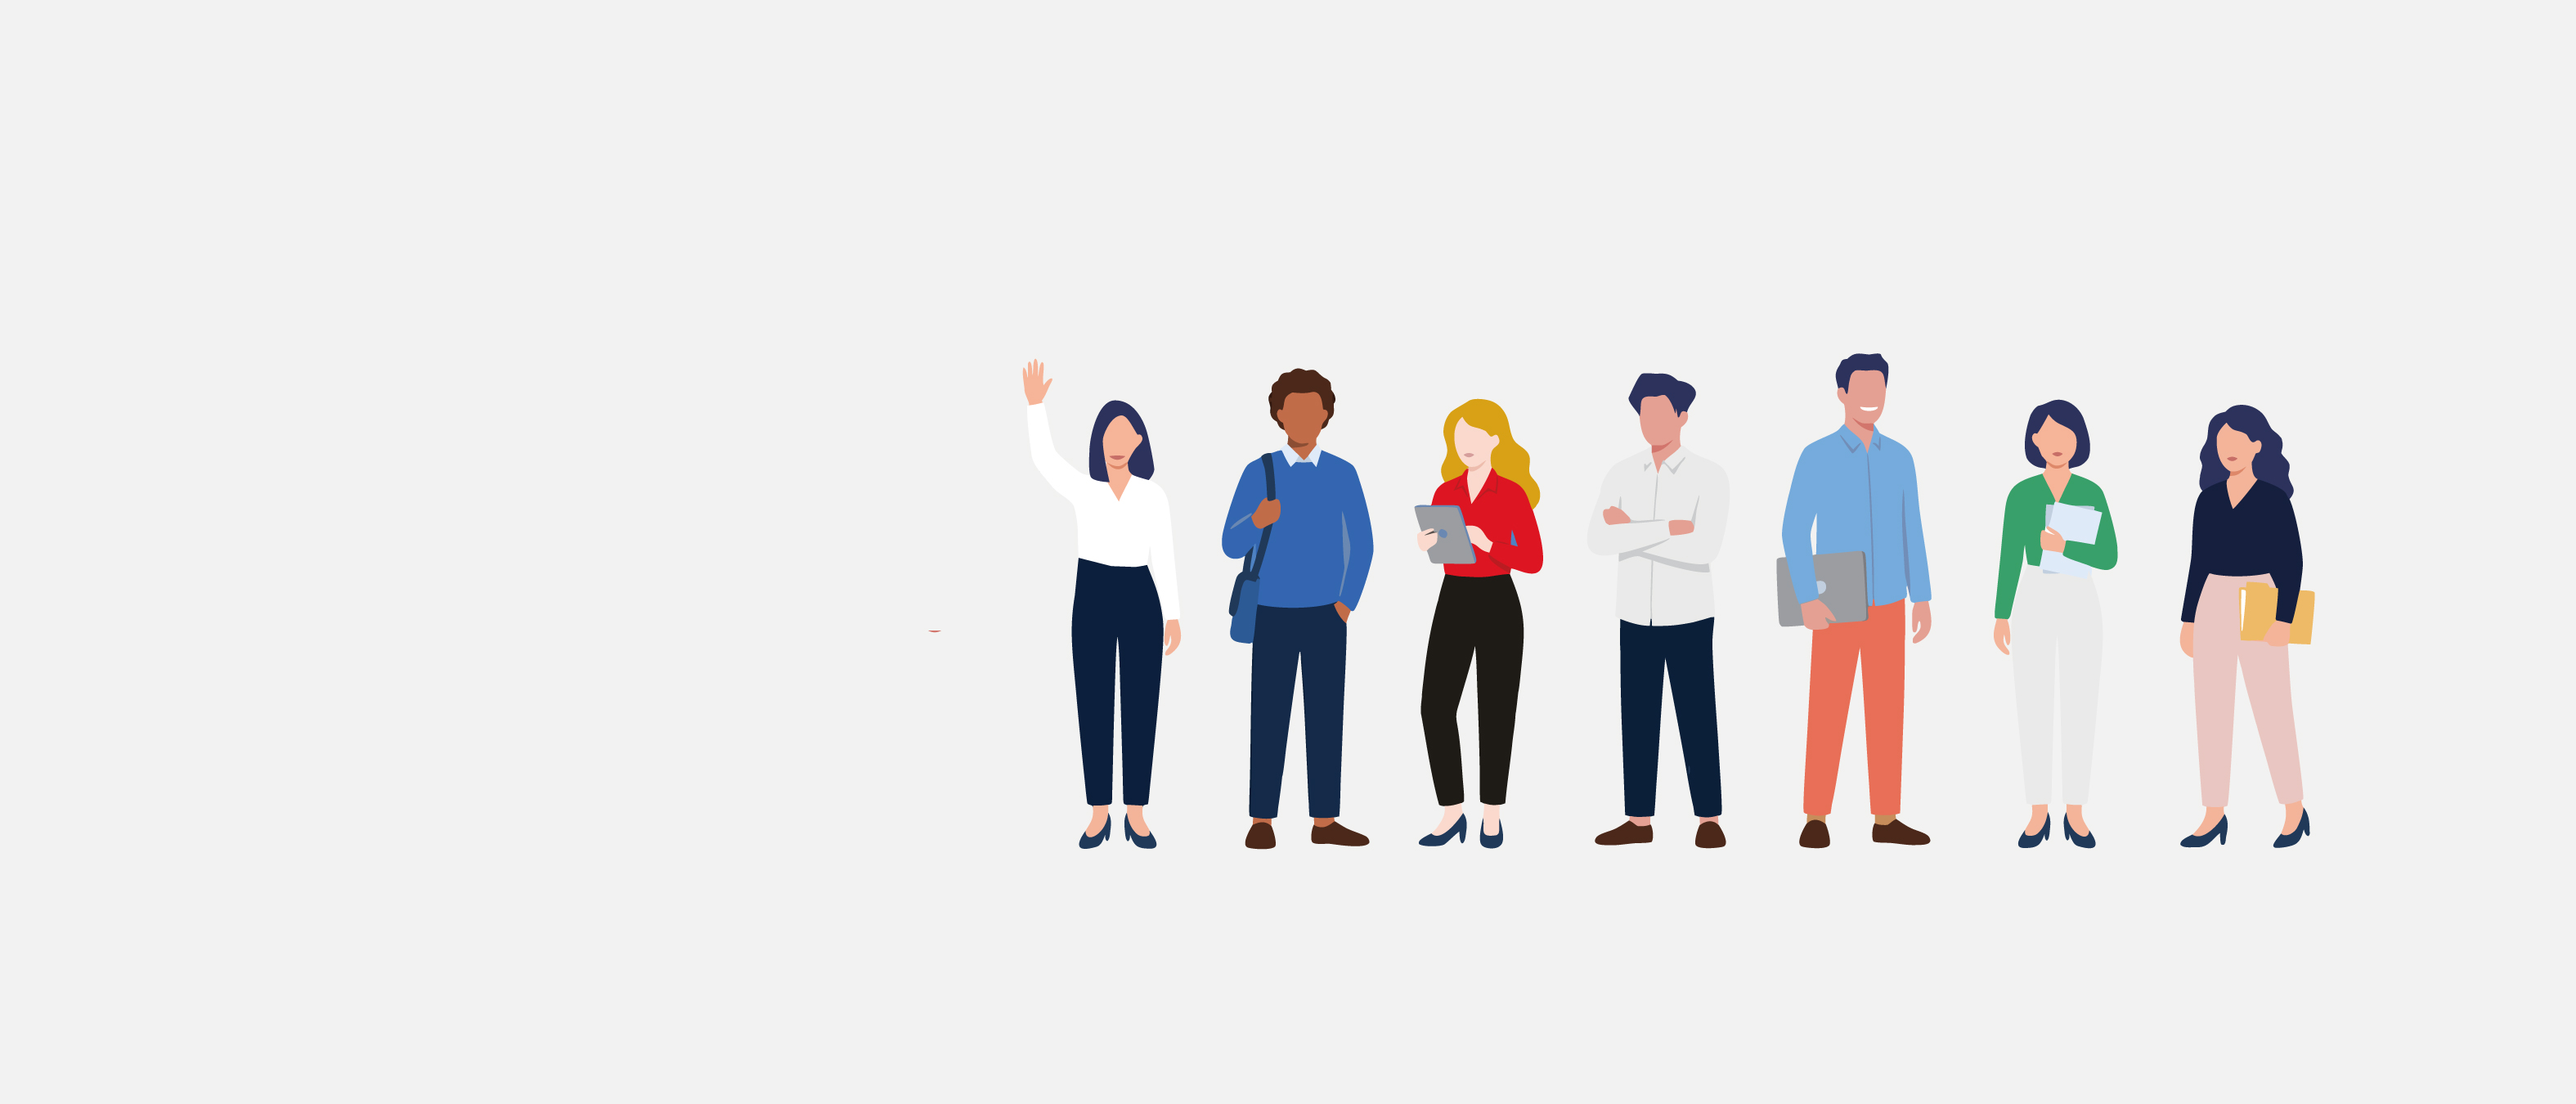
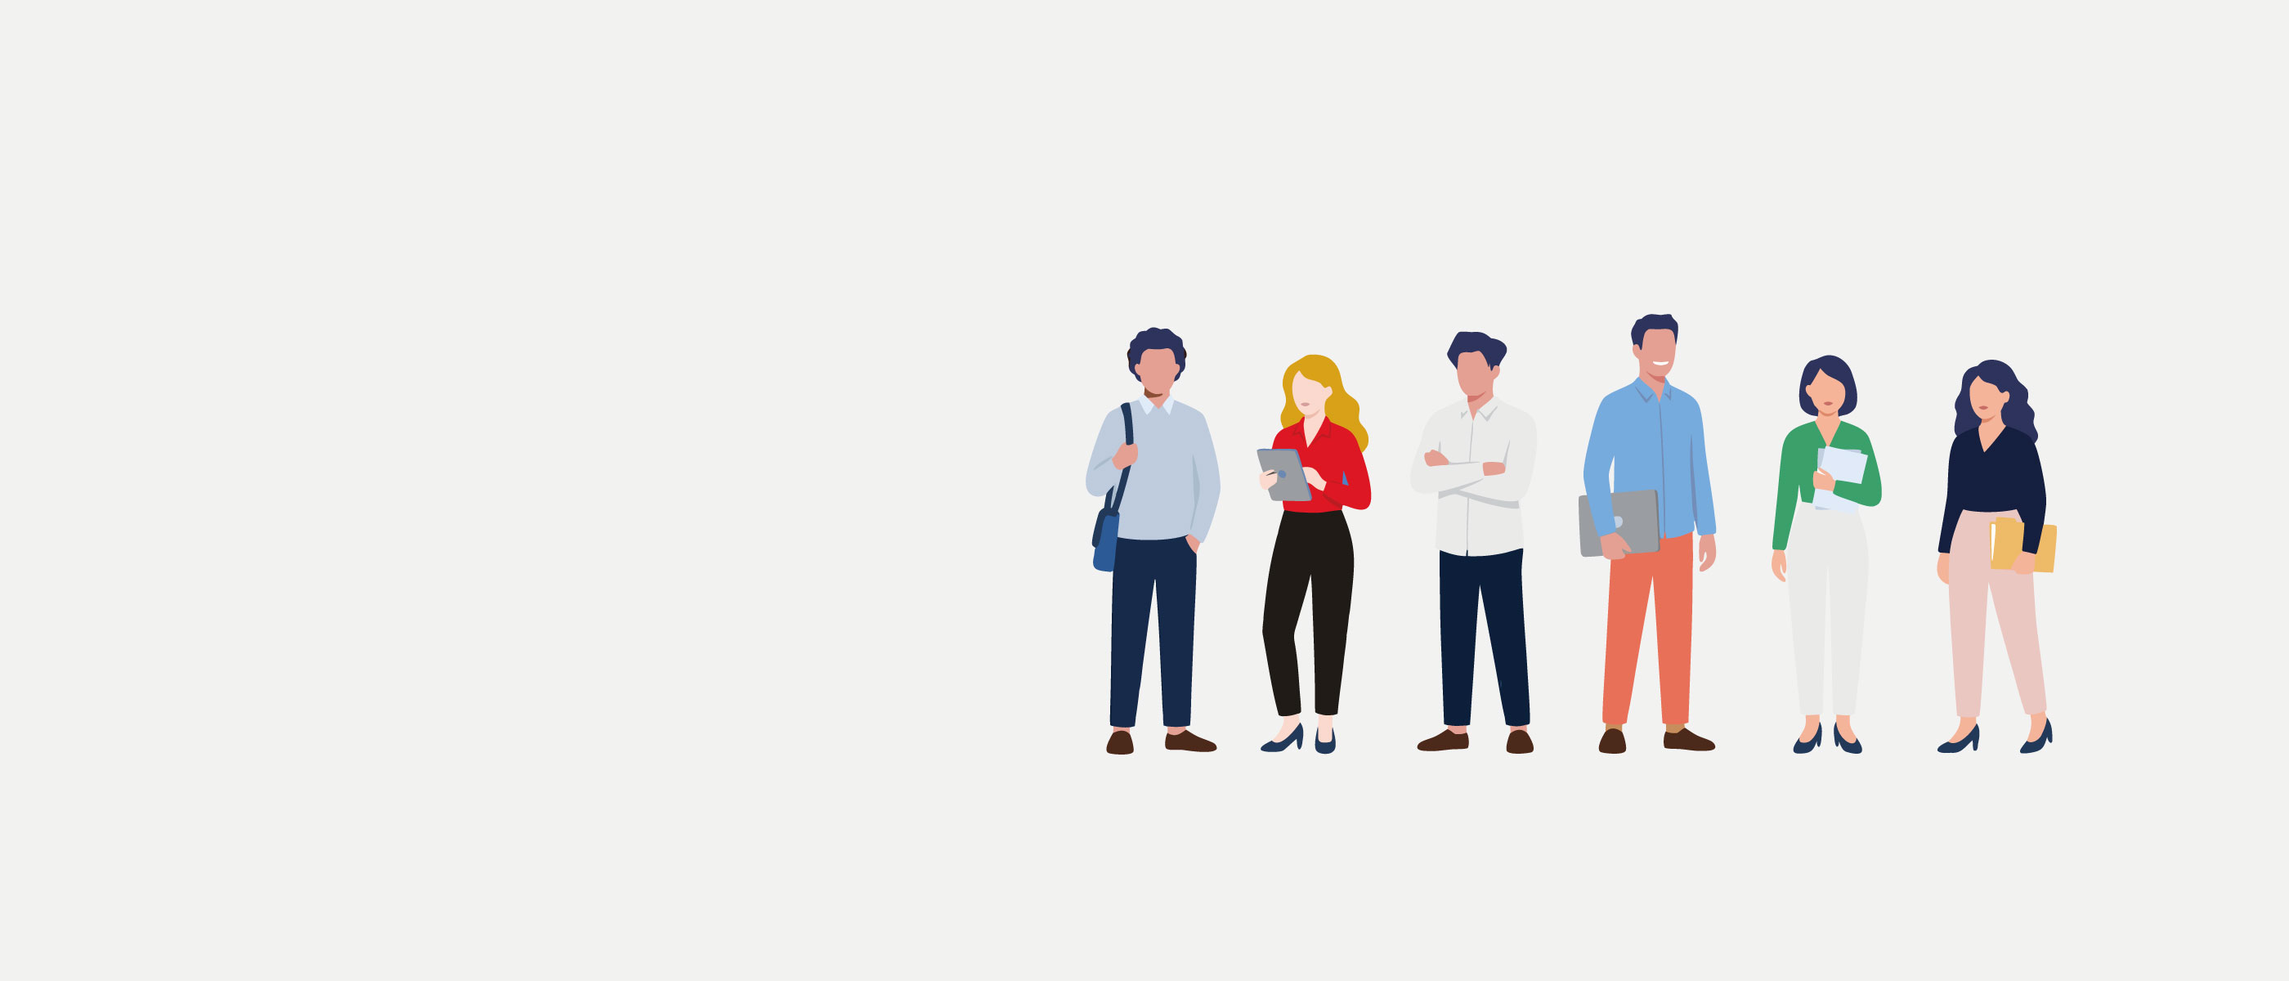
0410

Changed region(s): [[0.3729, 0.3392, 0.5593, 0.7708]]

diff --git a/src/components/utilities/PageRouting.svelte b/src/components/utilities/PageRouting.svelte
@@ -1,7 +1,7 @@
 <!-- src/lib/components/PageTransition.svelte -->
 <script lang="ts">
 	import { onMount, tick } from 'svelte';
-	import { afterNavigate } from '$app/navigation';
+	import { afterNavigate, goto } from '$app/navigation';
     import Logo from '../snippets/Logo.svelte';
 
 	interface Props {
@@ -19,19 +19,28 @@
 		showOpening = true
 	}: Props = $props();
 
+	const mobileBreakpoint = 768;
+	const mobileColumns = 5;
+
 	let blocks = $state<number[]>([]);
 	let blockSize = $state(0);
+	let activeColumns = $state(8);
 	let isAnimating = $state(false);
 	let isInitialized = $state(false);
 	let showOpeningAnimation = $state(false);
 	let openingContainer: HTMLElement;
 	let logoElement: HTMLElement;
 
+	function getRouteContent() {
+		return document.querySelector('.route-content');
+	}
+
 	function calculateGrid() {
 		if (typeof window === 'undefined') return;
-		blockSize = window.innerWidth / columns;
+		activeColumns = window.innerWidth <= mobileBreakpoint ? mobileColumns : columns;
+		blockSize = window.innerWidth / activeColumns;
 		const rows = Math.ceil(window.innerHeight / blockSize);
-		blocks = Array.from({ length: columns * rows }, (_, i) => i);
+		blocks = Array.from({ length: activeColumns * rows }, (_, i) => i);
 	}
 
 	async function animateOut(href: string) {
@@ -44,19 +53,27 @@
 		await tick();
 
 		return new Promise<void>((resolve) => {
+			if (!blocks.length) {
+				void goto(href, { noScroll: true }).then(() => resolve());
+				return;
+			}
+
 			gsap.fromTo(
 				'.transition-block',
 				{ opacity: 0, visibility: 'hidden' },
 				{
 					opacity: 1,
 					visibility: 'visible',
-					duration: 0.01,
-					ease: 'none',
+					duration: 0.24,
+					ease: 'power2.in',
 					stagger: { amount: staggerAmount, from: 'random' },
 					onComplete: () => {
-						window.scrollTo(0, 0);
-						window.location.href = href;
-						resolve();
+						const routeContent = getRouteContent();
+						if (routeContent) {
+							// Keep next page hidden until reveal starts.
+							gsap.set(routeContent, { opacity: 0 });
+						}
+						void goto(href, { noScroll: true }).then(() => resolve());
 					}
 				}
 			);
@@ -68,18 +85,29 @@
 
 		const gsapModule = await import('gsap');
 		const gsap = gsapModule.default;
+		const routeContent = getRouteContent();
 
 		gsap.to('.transition-block', {
 			opacity: 0,
 			visibility: 'hidden',
-			duration: 0.1,
+			duration: 0.16,
 			ease: 'none',
-			stagger: { amount: 0.75, from: 'random' },
-			delay: 0.3,
+			stagger: { amount: 0.65, from: 'random' },
+			delay: 0.12,
 			onComplete: () => {
 				isAnimating = false;
 			}
 		});
+
+		if (routeContent) {
+			gsap.fromTo(routeContent, { opacity: 0 }, {
+				opacity: 1,
+				duration: 1.0,
+				ease: 'power4.inOut',
+				delay: 0.75,
+				clearProps: 'opacity'
+			});
+		}
 	}
 
 	async function playOpeningAnimation() {
@@ -187,16 +215,7 @@
 	});
 
 	afterNavigate(() => {
-		const hash = window.location.hash;
-		if (hash) {
-			// Use offsetTop (absolute position) to snap behind pixel blocks before reveal
-			const el = document.getElementById(hash.replace('#', ''));
-			if (el) {
-				window.scrollTo(0, el.offsetTop - 80);
-			}
-		} else {
-			window.scrollTo(0, 0);
-		}
+		// Scroll position (top/hash) is controlled in +layout.svelte with Lenis.
 		calculateGrid();
 		if (isInitialized) {
 			animateIn();
@@ -218,7 +237,7 @@
 <div
 	class="page-transition"
 	class:is-initialized={isInitialized}
-	style:--columns={columns}
+	style:--columns={activeColumns}
 	style:--block-size="{blockSize}px"
 	style:--color={color}
 >

diff --git a/src/routes/+layout.svelte b/src/routes/+layout.svelte
@@ -4,7 +4,7 @@
 	import Header from "../components/layout/Header.svelte";
 	import Footer from "../components/layout/Footer.svelte";
 	import favicon from '$lib/assets/favicon.svg';
-	import { afterNavigate, goto } from '$app/navigation';
+	import { afterNavigate } from '$app/navigation';
 	import { onMount, onDestroy } from 'svelte';
 	import gsap from 'gsap';
 	import { ScrollTrigger } from 'gsap/ScrollTrigger';
@@ -40,32 +40,50 @@
 
 		gsap.ticker.lagSmoothing(0);
 
-		// Use capture so stopPropagation in nav.menu doesn't block this
-		document.addEventListener('click', handleHashClick, true);
+		// ✅ 同一ページ内のハッシュリンククリックを処理
+		document.addEventListener('click', handleHashClick);
 	});
 
 	onDestroy(() => {
 		if (browser) {
-			document.removeEventListener('click', handleHashClick, true);
+			document.removeEventListener('click', handleHashClick);
 			lenis?.destroy();
 			ScrollTrigger.getAll().forEach(t => t.kill());
 		}
 	});
 
-	// Reset scroll on page navigation (hash scroll is handled per-case below)
+	// ✅ ページ遷移後の処理
 	afterNavigate(() => {
 		if (!browser || !lenis) return;
-		// Non-hash navigations: reset to top
-		if (!window.location.hash) {
+
+		const hash = window.location.hash;
+
+		if (hash) {
+			// ハッシュがある場合 → 対象要素にスクロール
+			setTimeout(() => {
+				const targetId = hash.replace('#', '');
+				const el = document.getElementById(targetId);
+				
+				if (el) {
+					lenis!.scrollTo(el, {
+						offset: -80,        // Header分のオフセット（必要に応じて調整）
+						duration: 1.2,
+						immediate: false,   // スムーズにスクロール
+					});
+				}
+			}, 300); // DOM構築・画像読み込みを待つ
+		} else {
+			// ハッシュがない場合 → トップへリセット
 			lenis.scrollTo(0, { immediate: true });
 		}
+
 		ScrollTrigger.refresh();
 	});
 
-	// Handle same-page hash link clicks — both #Hash and /path#Hash forms
+	// 同一ページ内のハッシュリンク処理
 	function handleHashClick(e: MouseEvent) {
 		if (!lenis) return;
-
+		
 		const target = e.target as HTMLElement;
 		const link = target.closest('a');
 		if (!link) return;
@@ -73,19 +91,16 @@
 		const href = link.getAttribute('href');
 		if (!href || !href.includes('#')) return;
 
-		const linkUrl = new URL(href, window.location.href);
-		const isSamePage = linkUrl.pathname === window.location.pathname;
-
-		if (isSamePage && linkUrl.hash) {
+		// #Recruitment など、#のみで始まるリンク
+		if (href.startsWith('#')) {
 			e.preventDefault();
-			// Use goto so afterNavigate fires everywhere (e.g. closes SP menu in Header)
-			goto(href, { noScroll: true });
-			const el = document.getElementById(linkUrl.hash.substring(1));
+			const el = document.getElementById(href.substring(1));
 			if (el) {
 				lenis.scrollTo(el, { offset: -80, duration: 1.2 });
 			}
 		}
-		// Cross-page hash links: PageRouting handles scroll position in afterNavigate
+		// /about#Recruitment など、別ページへのハッシュリンクは
+		// SvelteKitのルーティングに任せる（afterNavigateで処理される）
 	}
 
 	
@@ -120,9 +135,11 @@
 <CustomCursor />
 <ScrollAnimations />
 
+<div class="route-content">
 <Header />
 {@render children()}
 <Footer />
+</div>
 
 
 </div>
@@ -130,6 +147,8 @@
 
 
 <style>
-
+.route-content {
+	opacity: 1;
+}
 
 </style>

diff --git a/src/components/utilities/LangFontManager.svelte b/src/components/utilities/LangFontManager.svelte
@@ -1,28 +1,16 @@
 <script>
-  import { onMount, onDestroy } from 'svelte';
-  import { lang } from '$lib/utils/lang';
+	import { onMount } from 'svelte';
+	import { lang } from '$lib/utils/lang';
 
-  let cleanup = [];
-  let currentLang = 'en';
-
-  onMount(() => {
-    // Initialize language
-    currentLang = lang.init();
-    document.documentElement.setAttribute('lang', currentLang);
-    console.log('[LangManager] Initial lang:', currentLang);
-    
-    // Subscribe to language changes
-    const unsubLang = lang.subscribe(newLang => {
-      if (newLang !== currentLang) {
-        console.log('[LangManager] Language changed:', currentLang, '->', newLang);
-        currentLang = newLang;
-        document.documentElement.setAttribute('lang', newLang);
-      }
-    });
-    cleanup.push(unsubLang);
-  });
-
-  onDestroy(() => {
-    cleanup.forEach(fn => fn());
-  });
+	onMount(() => {
+		const initialLang = lang.init();
+		document.documentElement.setAttribute('lang', initialLang);
+		
+		// 言語変更を監視
+		const unsub = lang.subscribe(newLang => {
+			document.documentElement.setAttribute('lang', newLang);
+		});
+		
+		return unsub;
+	});
 </script>

diff --git a/src/components/utilities/ScrollAnimations.svelte b/src/components/utilities/ScrollAnimations.svelte
@@ -443,8 +443,12 @@ document.querySelectorAll('[data-animate="text-scrub"]').forEach((el) => {
 
 	afterNavigate(() => {
 		setTimeout(() => {
-			window.scrollTo(0, 0);
-			lenis?.scrollTo(0, { immediate: true });
+			// Deep links (/about#Recruitment): +layout.svelte scrolls with Lenis; resetting here would jump to top
+			const hasFragment = window.location.hash.length > 1;
+			if (!hasFragment) {
+				window.scrollTo(0, 0);
+				lenis?.scrollTo(0, { immediate: true });
+			}
 
 			setTimeout(() => {
 				initAnimations();

diff --git a/src/lib/utils/fontplus.ts b/src/lib/utils/fontplus.ts
@@ -1,0 +1,11 @@
+// src/lib/utils/fontplus.ts
+export function reloadFontPlus() {
+    if (typeof window !== 'undefined' && window.FONTPLUS) {
+      setTimeout(() => {
+        if (!window.FONTPLUS?.isloading()) {
+          console.log('[FontPlus] Reloading for language change');
+          window.FONTPLUS?.reload(true);
+        }
+      }, 300);
+    }
+  }

diff --git a/src/components/utilities/Fontplus.svelte b/src/components/utilities/Fontplus.svelte
@@ -64,15 +64,6 @@
 
 
 
-  export function reloadFontPlus() {
-	if (typeof window !== 'undefined' && window.FONTPLUS) {
-		setTimeout(() => {
-			if (!window.FONTPLUS?.isloading()) {
-				console.log('[FontPlus] Reloading for language change');
-				window.FONTPLUS?.reload(true);
-			}
-		}, 150);
-	}
-}
+
 
 </script>

diff --git a/src/components/layout/Header.svelte b/src/components/layout/Header.svelte
@@ -7,6 +7,7 @@ import { onMount } from 'svelte';
   import { afterNavigate } from '$app/navigation';
   import Links from "../snippets/pageLinks.svelte";
   import Fontplus from '../utilities/Fontplus.svelte';
+  import { reloadFontPlus } from '../../lib/utils/fontplus'; // ← これ追加
  
   let y
 
